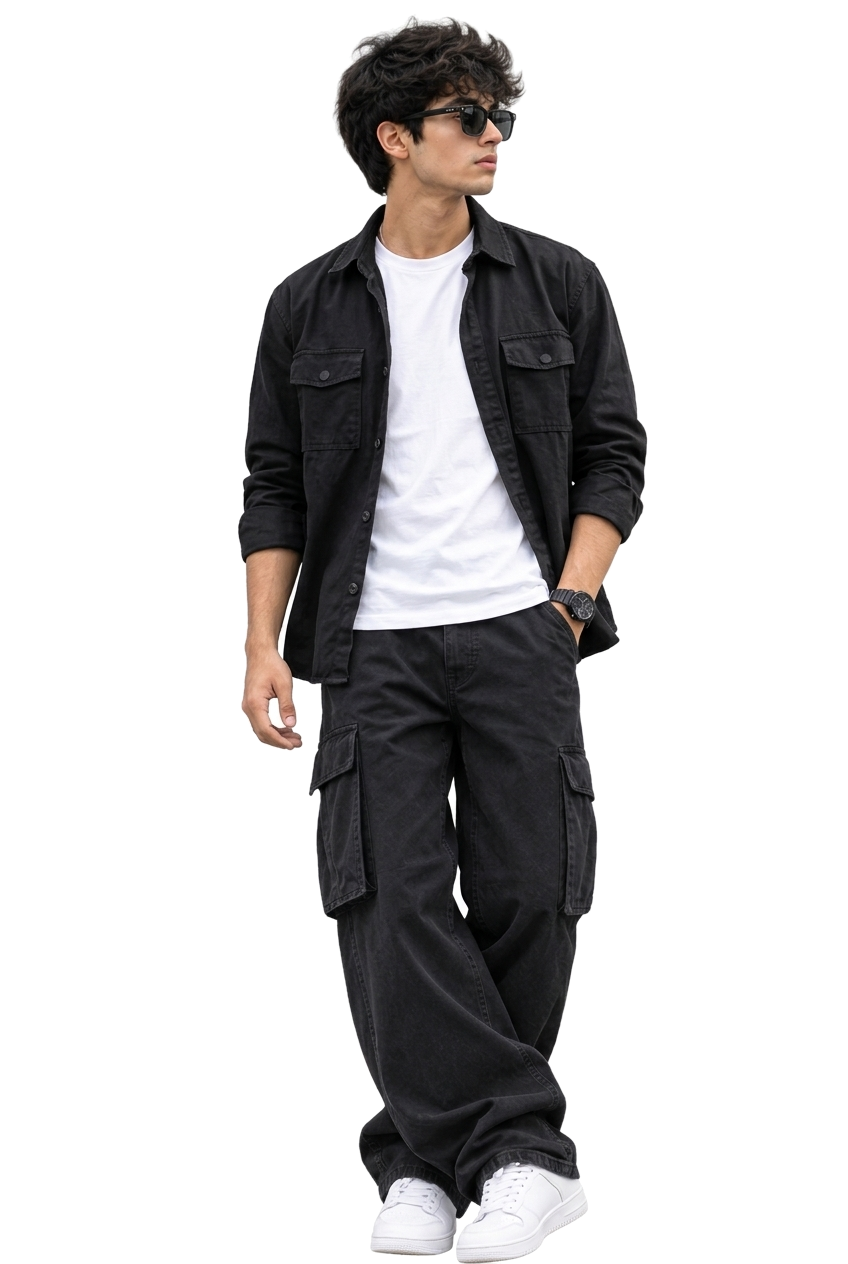
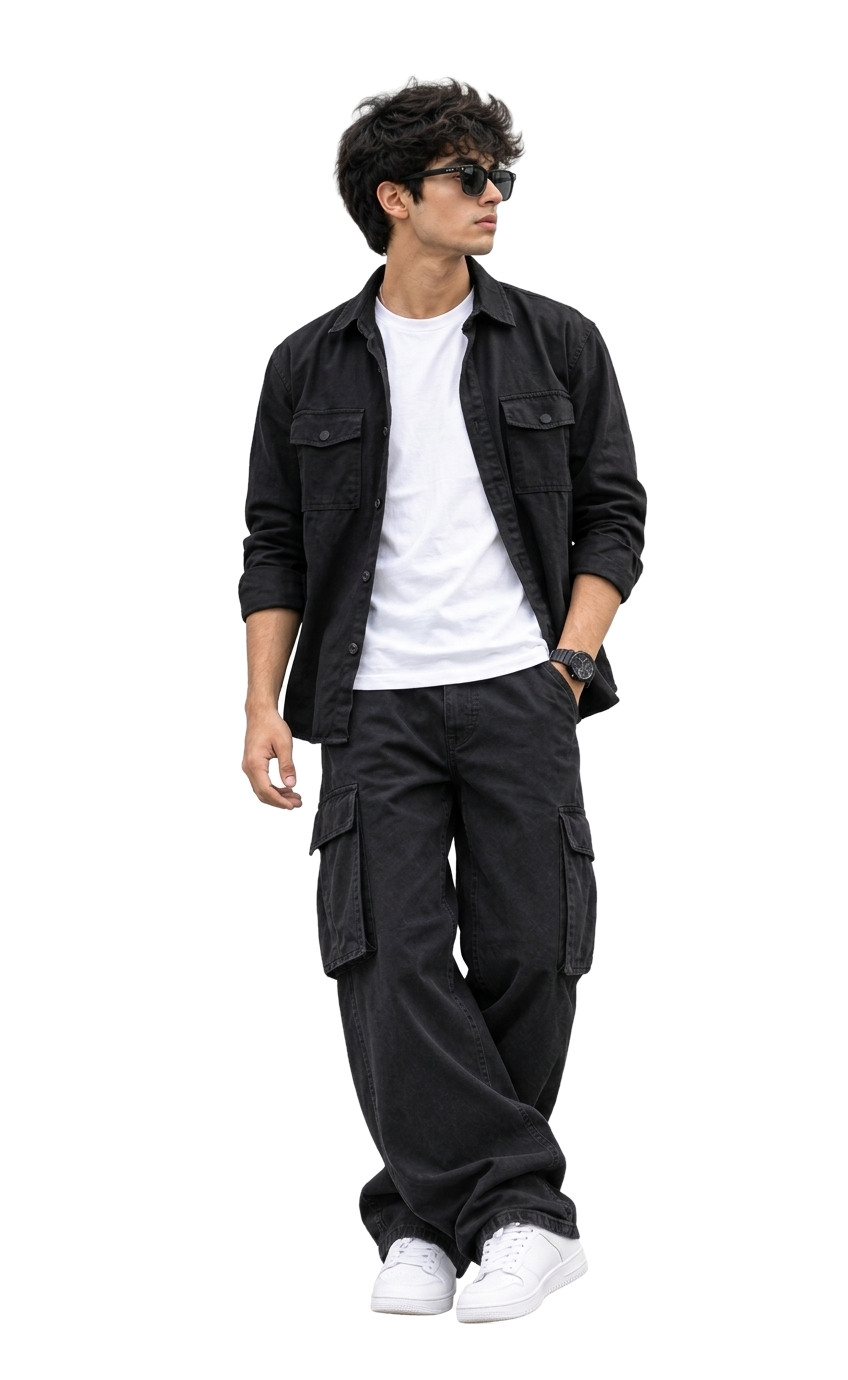
fix: pad model cutout images and position inside runway bounds so image is never cut

diff --git a/frontend/src/components/EditorialBanner.jsx b/frontend/src/components/EditorialBanner.jsx
@@ -230,10 +230,10 @@ export default function EditorialBanner() {
               rotateY,
               transformStyle: 'preserve-3d',
             }}
-            className="relative h-[480px] sm:h-[560px] md:h-[620px] lg:h-[680px] xl:h-[720px] w-full rounded-2xl bg-gradient-to-b from-[#f8fafc] via-[#eff2f6] to-[#e2e7ee] border border-neutral-200/90 overflow-hidden flex items-center justify-center shadow-sm"
+            className="relative h-[460px] sm:h-[520px] md:h-[580px] lg:h-[640px] xl:h-[680px] w-full rounded-2xl bg-gradient-to-b from-[#f8fafc] via-[#eff2f6] to-[#e2e7ee] border border-neutral-200/90 overflow-hidden flex items-center justify-center shadow-sm"
           >
             {/* Ambient High-Key Studio Center Spotlight */}
-            <div className="absolute inset-0 bg-[radial-gradient(ellipse_70%_75%_at_50%_40%,rgba(255,255,255,1)_0%,rgba(255,255,255,0.75)_35%,transparent_80%)] pointer-events-none" />
+            <div className="absolute inset-0 bg-[radial-gradient(ellipse_70%_75%_at_50%_45%,rgba(255,255,255,1)_0%,rgba(255,255,255,0.75)_40%,transparent_80%)] pointer-events-none" />
 
             {/* Subtle Editorial Background Watermark Typography */}
             <div className="absolute inset-x-0 top-1/2 -translate-y-1/2 text-center pointer-events-none select-none overflow-hidden z-0 opacity-[0.06]">
@@ -276,10 +276,10 @@ export default function EditorialBanner() {
             </button>
 
             {/* Studio Floor Soft Contact Shadow under Model Feet */}
-            <div className="absolute bottom-16 sm:bottom-20 w-48 sm:w-72 md:w-88 h-6 sm:h-8 bg-neutral-950/20 rounded-[100%] blur-md pointer-events-none z-10" />
+            <div className="absolute bottom-[76px] sm:bottom-[86px] w-48 sm:w-68 h-5 sm:h-6 bg-neutral-950/15 rounded-[100%] blur-md pointer-events-none z-10" />
 
-            {/* Main Model Runway Stage - Grand Prominent Model with Seamless Outfit Transition */}
-            <div className="relative z-10 w-full h-full flex items-end justify-center pb-14 sm:pb-16 overflow-hidden pointer-events-none">
+            {/* Main Model Runway Stage - Fully Uncut Model with Headroom and Footroom */}
+            <div className="absolute inset-x-0 top-0 bottom-[72px] sm:bottom-[82px] pt-14 sm:pt-16 px-4 z-10 flex items-center justify-center pointer-events-none overflow-visible">
               {displayLooks.map((look, idx) => {
                 const isActive = currentIndex === idx;
                 return (
@@ -299,8 +299,9 @@ export default function EditorialBanner() {
                       duration: 0.35,
                       ease: 'easeInOut',
                     }}
-                    className="absolute h-full max-h-[92%] sm:max-h-[96%] w-auto object-contain object-bottom drop-shadow-[0_25px_45px_rgba(0,0,0,0.25)] filter contrast-[1.07] brightness-[1.03] select-none"
+                    className="max-h-full max-w-full w-auto h-full object-contain object-center drop-shadow-[0_20px_35px_rgba(0,0,0,0.22)] filter contrast-[1.06] brightness-[1.02] select-none"
                     style={{
+                      position: 'absolute',
                       pointerEvents: isActive ? 'auto' : 'none',
                     }}
                   />
